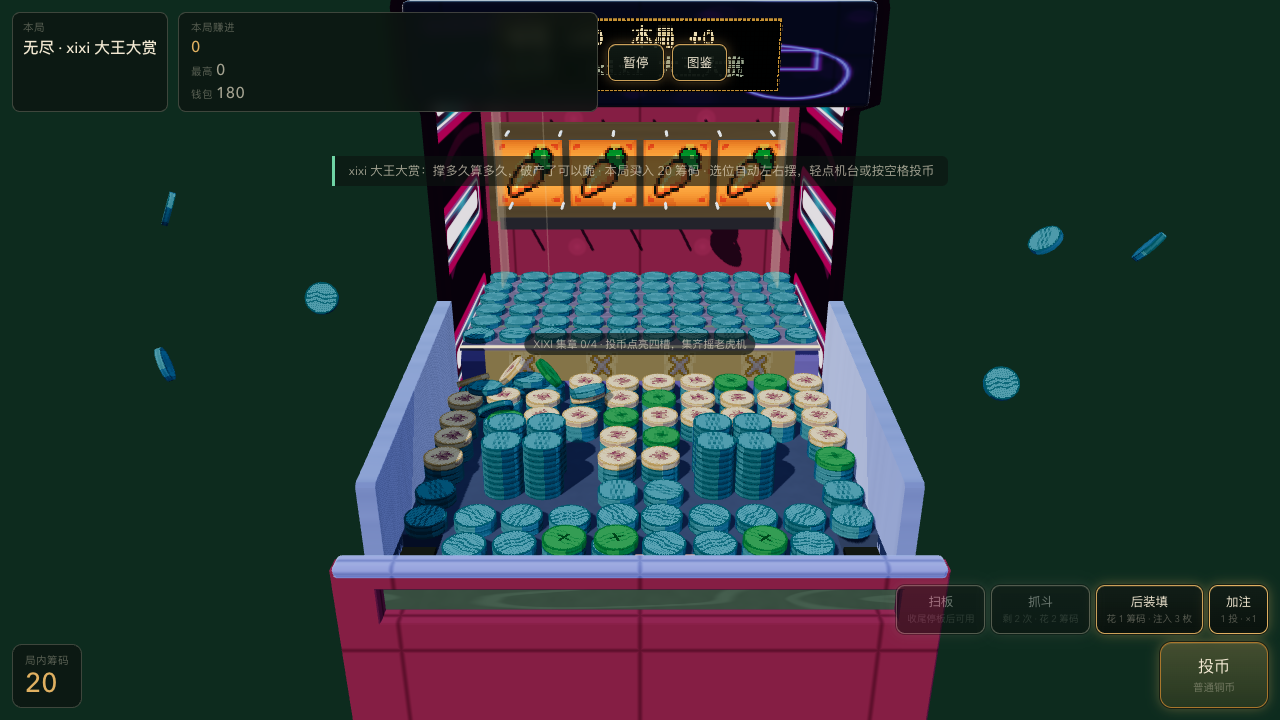
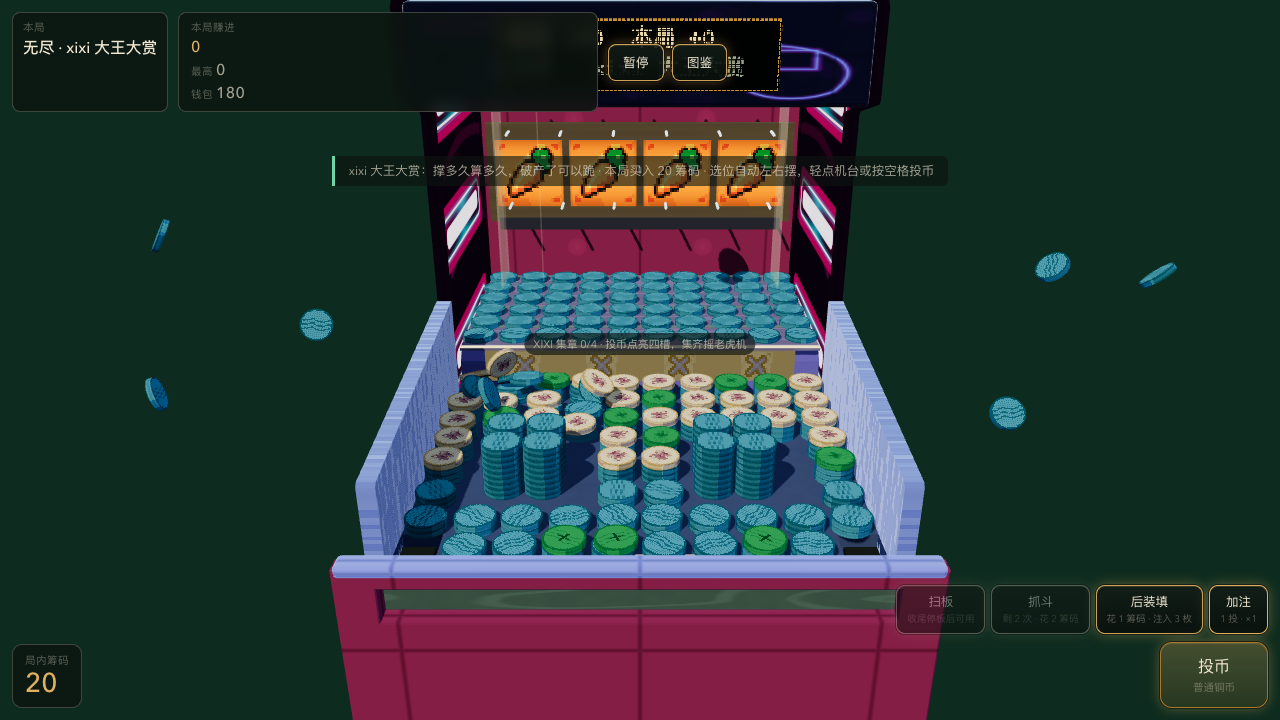
R2-T1 末项 法线贴图：给拉丝金属加真实的受光起伏（+1 program，实测 24 → 25）
前面四条扩参（双色 rim / matcap-lite / 背面色带 / detail）全都只作用在**着色**上，
没有一条能改**轮廓受光**：低多面体的面是纯平的，光照一过就是一整块同色，
近看仍是塑料贴片。法线扰动是唯一能在不动几何的前提下让平面出现真实明暗的手段。

这一项是 R2 里**唯一被允许破例**的：`material.normalMap` 非空会点亮
USE_NORMALMAP_TANGENTSPACE ⇒ 多一个 define、多一份程序，绕不开。
计划预先写死了判据与放弃条件（只看程序数，涨到 ≥ 29 就整块撤掉），
所以单独一次提交。实读 24 → 25（+1，正是预期），roster 求和 25 对得上，
draw call 46 不变、ramps 4 不变、无着色器编译报错 ⇒ **不撤**。

挂在哪件是挑过的：`rail`（侧墙低段 + 护栏）。它的「拉丝」以前只是**乘在 albedo 上**
的条纹（ROLE_DETAIL.rail），受光仍是一整块；换成有法线扰动之后，
截图里两侧围挡从「一块均匀的浅蓝」变成看得出竖向丝纹与明暗起伏。
没挑 panelArt：那一件已经叠了内凹灯饰的 Arcane 涂鸦，再加受光噪声只会脏。

法线图是 CPU 侧烘的 128×128 DataTexture（高度场中心差分 → 编码成 (-dx,-dy,1)），
模块级缓存 ⇒ 35 个材质共用一张。⚠ `colorSpace = NoColorSpace`：法线是向量数据，
按 sRGB 解会把 Z 分量拉偏，整件的光照跟着歪。

diff --git a/src/render/normalMaps.ts b/src/render/normalMaps.ts
@@ -1,0 +1,126 @@
+import * as THREE from 'three';
+
+/**
+ * 程序化法线贴图（R2-T1 的最后一项，也是**唯一破例项**）。
+ *
+ * ## 为什么它是破例
+ *
+ * R2 的整条纪律是「同 program 内扩表达力」：加 uniform 不加 define ⇒ 不新增编译变体
+ * （双色 rim、matcap-lite、背面色带都是这么做的）。法线贴图做不到 ——
+ * 一旦 `material.normalMap` 非空，three 就点亮 `USE_NORMALMAP_TANGENTSPACE`，
+ * **多一个 define ⇒ 多一份程序**。计划因此把它单独切成一次提交，
+ * 并且预先写好放弃条件：程序数从 24 涨到 ≥ 29 就整块撤掉。
+ *
+ * ## 为什么还是值得试
+ *
+ * 前面几条扩参全都作用在**着色**上（色带、边缘、高光），没有一条能改**轮廓受光**：
+ * 低多面体的面是纯平的，光照一过就是一整块同色，近看是「塑料贴片」。
+ * 法线扰动是唯一能在不动几何的前提下让平面上出现真实的明暗起伏的手段。
+ *
+ * ## 三条实现约束
+ *
+ * 1. **只给已经有 `map` 的面用。** 切线空间法线要 UV 与切线帧；带 `map` 的材质
+ *    `USE_MAP + mapUv` 本来就开着，UV 是现成的。给无 UV 约定的件挂它会引入新变量，
+ *    而这一项本来就要盯的只有「程序数」一个读数。
+ * 2. **`repeat` 与 `wrap` 由调用方设**，本工厂只负责画一张 `[-1,1]` 编码好的图。
+ * 3. **模块级缓存**：材质是逐件建的，没有缓存就会烤出几十张同样的法线图
+ *    （与 `RampLut.rampLutFor` 同一个理由）。
+ */
+
+export type SurfaceNormalKind = 'brushed' | 'hammered';
+
+/** 画布边长。128 足够让「每条纹 4 px」这种密度落进可分辨区间，又只有 64 KB。 */
+const SIZE = 128;
+
+function hash(x: number, y: number, salt: number): number {
+  // CPU 侧 float64，用 sin 没有精度问题（GLSL 那条「不要 sin-hash」的禁令针对的是
+  // 移动端 mediump 片元精度，不适用于这里的一次性烘焙）。
+  const s = Math.sin(x * 127.1 + y * 311.7 + salt * 74.7) * 43758.5453;
+  return s - Math.floor(s);
+}
+
+/**
+ * 高度场（0~1）。两种纹样都是**各向异性 + 低频起伏**的叠加：
+ * `brushed` 沿 x 拉长的细纹（金属拉丝），`hammered` 是稀疏的浅凹（钣金锤痕）。
+ */
+function height(kind: SurfaceNormalKind, x: number, y: number): number {
+  const u = x / SIZE;
+  const v = y / SIZE;
+  if (kind === 'brushed') {
+    const streak = hash(Math.floor(u * SIZE), Math.floor(v * 8), 1);
+    const wave = 0.5 + 0.5 * Math.sin(v * Math.PI * 2 * 3.0);
+    return 0.5 + (streak - 0.5) * 0.7 + (wave - 0.5) * 0.12;
+  }
+  const cellX = u * 6.0;
+  const cellY = v * 6.0;
+  const cx = Math.floor(cellX);
+  const cy = Math.floor(cellY);
+  // 3×3 邻域里找最近的锤痕中心：每个凹坑是一个余弦碗。
+  let best = 0;
+  for (let dy = -1; dy <= 1; dy += 1) {
+    for (let dx = -1; dx <= 1; dx += 1) {
+      const px = cx + dx + hash(cx + dx, cy + dy, 2);
+      const py = cy + dy + hash(cx + dx, cy + dy, 3);
+      const d = Math.hypot(cellX - px, cellY - py);
+      best = Math.max(best, d < 0.42 ? Math.cos((d / 0.42) * Math.PI * 0.5) : 0);
+    }
+  }
+  return 0.5 - best * 0.5 + (hash(cx, cy, 4) - 0.5) * 0.06;
+}
+
+const cache = new Map<SurfaceNormalKind, THREE.DataTexture>();
+
+/**
+ * 取某个纹样的切线空间法线图（同一种只烤一次）。
+ *
+ * 法线由高度场**中心差分**得到，再按 `STRENGTH` 缩放倾斜量 —— 直接用法线贴图
+ * 而不是让 three 去解算高度，是因为 `MeshToonMaterial` 没有高度贴图通道。
+ */
+export function surfaceNormalMap(kind: SurfaceNormalKind): THREE.DataTexture {
+  const existing = cache.get(kind);
+  if (existing) return existing;
+
+  // 倾斜强度：0.35 是「近看有起伏、远看不脏」的一档。再高一档平面上就出现噪点感。
+  const strength = 0.35;
+  const heights = new Float32Array(SIZE * SIZE);
+  for (let y = 0; y < SIZE; y += 1) {
+    for (let x = 0; x < SIZE; x += 1) {
+      heights[y * SIZE + x] = height(kind, x, y);
+    }
+  }
+  const at = (x: number, y: number): number =>
+    heights[((y + SIZE) % SIZE) * SIZE + ((x + SIZE) % SIZE)];
+
+  const data = new Uint8Array(SIZE * SIZE * 4);
+  for (let y = 0; y < SIZE; y += 1) {
+    for (let x = 0; x < SIZE; x += 1) {
+      const dx = (at(x + 1, y) - at(x - 1, y)) * strength;
+      const dy = (at(x, y + 1) - at(x, y - 1)) * strength;
+      // 未归一化的 (−dx, −dy, 1) 编码进 [0,1]。归一化留给采样端，这里只要方向对。
+      const index = (y * SIZE + x) * 4;
+      data[index] = Math.round((Math.max(-1, Math.min(1, -dx)) * 0.5 + 0.5) * 255);
+      data[index + 1] = Math.round((Math.max(-1, Math.min(1, -dy)) * 0.5 + 0.5) * 255);
+      data[index + 2] = 255;
+      data[index + 3] = 255;
+    }
+  }
+
+  const texture = new THREE.DataTexture(data, SIZE, SIZE, THREE.RGBAFormat);
+  texture.name = `surface-normal-${kind}`;
+  texture.wrapS = THREE.RepeatWrapping;
+  texture.wrapT = THREE.RepeatWrapping;
+  // 与色带同理：拉丝纹要硬边，线性过滤会把它糊成灰雾。
+  texture.magFilter = THREE.NearestFilter;
+  texture.minFilter = THREE.LinearMipmapLinearFilter;
+  texture.generateMipmaps = true;
+  // 法线图是**向量**数据，绝不能按 sRGB 解（否则 Z 分量被 gamma 拉偏，光照整体歪）。
+  texture.colorSpace = THREE.NoColorSpace;
+  texture.needsUpdate = true;
+  cache.set(kind, texture);
+  return texture;
+}
+
+/** 调试用：已烤出的法线图数量。 */
+export function surfaceNormalMapCount(): number {
+  return cache.size;
+}

diff --git a/src/render/ToonMaterial.ts b/src/render/ToonMaterial.ts
@@ -78,6 +78,16 @@ export type ToonMaterialParams = {
    * 而且背板一旦进暗部（色带掉到最低档）图标也不会跟着黑掉。
    */
   emissiveMap?: THREE.Texture | null;
+  /**
+   * 切线空间法线图（R2-T1 最后一项）。
+   *
+   * ⚠ **这是本工厂唯一一个会多编译一份程序的参数**：设了它就点亮
+   * `USE_NORMALMAP_TANGENTSPACE`，与其余「加 uniform 不加 define」的扩参不同。
+   * 所以它单独成一次提交，判据只看程序数（24 → 25 可接受，涨到 ≥ 29 整块撤掉）。
+   *
+   * 只对**已经挂 `map`** 的面给：切线帧要 UV，无 map 的件挂它会同时引入两个新变量。
+   */
+  normalMap?: THREE.Texture | null;
   transparent?: boolean;
   opacity?: number;
   side?: THREE.Side;
@@ -154,6 +164,7 @@ export function makeToonMaterial(params: ToonMaterialParams): THREE.MeshToonMate
       (material.map as unknown as { channel?: number }).channel ?? 0;
   }
   if (params.emissiveMap) material.emissiveMap = params.emissiveMap;
+  if (params.normalMap) material.normalMap = params.normalMap;
   if (params.emissive !== undefined) {
     material.emissive = new THREE.Color(params.emissive);
     material.emissiveIntensity = params.emissiveIntensity ?? 1;

diff --git a/src/systems/TableBuilder.ts b/src/systems/TableBuilder.ts
@@ -18,6 +18,7 @@ import {
   createArcaneScoreLineTexture,
 } from '../render/cabinetTexture';
 import { marqueeScreen } from '../render/marqueeScreen';
+import { surfaceNormalMap } from '../render/normalMaps';
 
 /**
  * 机柜件的默认圆角半径（米）。
@@ -894,6 +895,12 @@ function cabinetMaterials(): {
         // V3：护栏是金属件，走各向异性拉丝。
         ...ROLE_DETAIL.rail,
         ...ROLE_RIM.rail,
+        // R2-T1 末项：拉丝金属的**法线扰动**。挑 `rail` 而不挑别的件，是因为
+        // 「拉丝」这件事以前只作用在**颜色**上（detail 乘 albedo），受光仍是整块同色，
+        // 近看还是贴片；法线扰动是唯一能让它出现真实明暗起伏的手段。
+        // ⚠ 这一行会把程序数从 24 抬到 25（`USE_NORMALMAP_TANGENTSPACE`）——
+        //   这是 R2 里唯一被允许破例的一项，判据只看程序数，涨到 ≥ 29 就整块撤掉。
+        normalMap: surfaceNormalMap('brushed'),
       }),
       trim: makeToonMaterial({
         name: 'trim',
